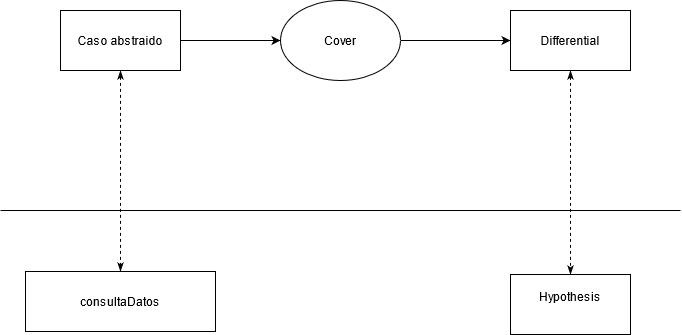
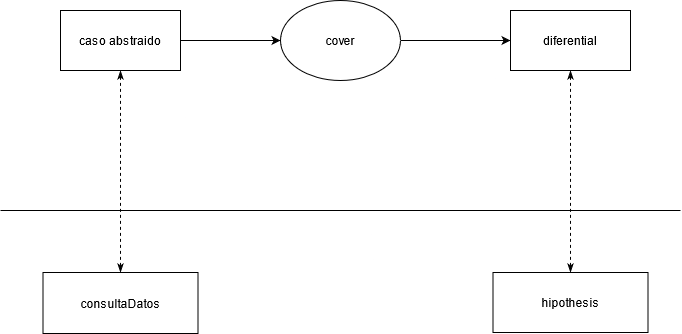
Corregido el mapeo de lor roles.

diff --git a/practica/capitulos/Tema_3.tex b/practica/capitulos/Tema_3.tex
@@ -89,7 +89,7 @@ La plantilla que mas se adapta a nuestro problema es la de diagnóstico, como se
 
 \begin{figure}[H]
   \centering
-  \includegraphics[scale=2.10]{imagenes/PlantillaDiagnosticoModificada.png}
+  \includegraphics[scale=0.5]{imagenes/PlantillaDiagnosticoModificada.png}
   \caption{\label{fig:PlantillaDiagnosticoModificada}Ejemplo de la plantilla diagnóstico modificada}
 \end{figure}
 
@@ -114,7 +114,14 @@ Comentarios y ejemplos concretos para los roles presentes en la plantilla selecc
 \end{figure}
 
 \subsection{Estructura inferencial}
+
 \subsubsection{Plantilla}
+\begin{figure}[H]
+  \centering
+  \includegraphics[scale=0.50]{imagenes/PlantillaDiagnosticoModificadaInferencia.png}
+  \caption{\label{fig:PlantillaDiagnosticoModificadaInferencia}Plantilla diagnostico modificada con inferencias}
+\end{figure}
+
 \subsubsection{Mapeado}
 Relacción entre los roles de las inferencias de la plantilla con los conceptos de nuestro problema.
 \begin{itemize}
@@ -157,6 +164,52 @@ Relacción entre los roles de las inferencias de la plantilla con los conceptos 
   \begin{figure}[H]
     \centering
     \includegraphics[scale=0.50]{imagenes/verify2.png}
+    \caption{\label{fig:verify2}Ejemplo del mapeo de Verify del rol finding}
+  \end{figure}
+\end{itemize}
+
+Mapeado con la inferencias incorporadas:
+
+\begin{itemize}
+  \item Abstraído:
+  \begin{figure}[H]
+    \centering
+    \includegraphics[scale=0.50]{imagenes/abstraccion_inferencia.png}
+    \caption{\label{fig:Cover}Ejemplo del mapeo de Abstraccion}
+  \end{figure}
+  \item Cover:  
+  \begin{figure}[H]
+    \centering
+    \includegraphics[scale=0.50]{imagenes/cover2.png}
+    \caption{\label{fig:Cover}Ejemplo del mapeo de Cover}
+  \end{figure}
+  \item Select: 
+  \begin{figure}[H]
+    \centering
+    \includegraphics[scale=0.50]{imagenes/select.png}
+    \caption{\label{fig:Select}Ejemplo del mapeo de Select}
+  \end{figure}
+  \item Specify: 
+  \begin{figure}[H]
+    \centering
+    \includegraphics[scale=0.50]{imagenes/specify2.png}
+    \caption{\label{fig:Specify}Ejemplo del mapeo de Specify}
+  \end{figure}
+  \item Obtain:  
+  \begin{figure}[H]
+    \centering
+    \includegraphics[scale=0.50]{imagenes/obtain2.png}
+    \caption{\label{fig:Obtain}Ejemplo del mapeo de Obtain}
+  \end{figure}
+  \item Verify:  
+  \begin{figure}[H]
+    \centering
+    \includegraphics[scale=0.50]{imagenes/verify11.png}
+    \caption{\label{fig:Verify}Ejemplo del mapeo de Verify del rol Diferential}
+  \end{figure}
+  \begin{figure}[H]
+    \centering
+    \includegraphics[scale=0.50]{imagenes/verify12.png}
     \caption{\label{fig:verify2}Ejemplo del mapeo de Verify del rol finding}
   \end{figure}
 \end{itemize}
